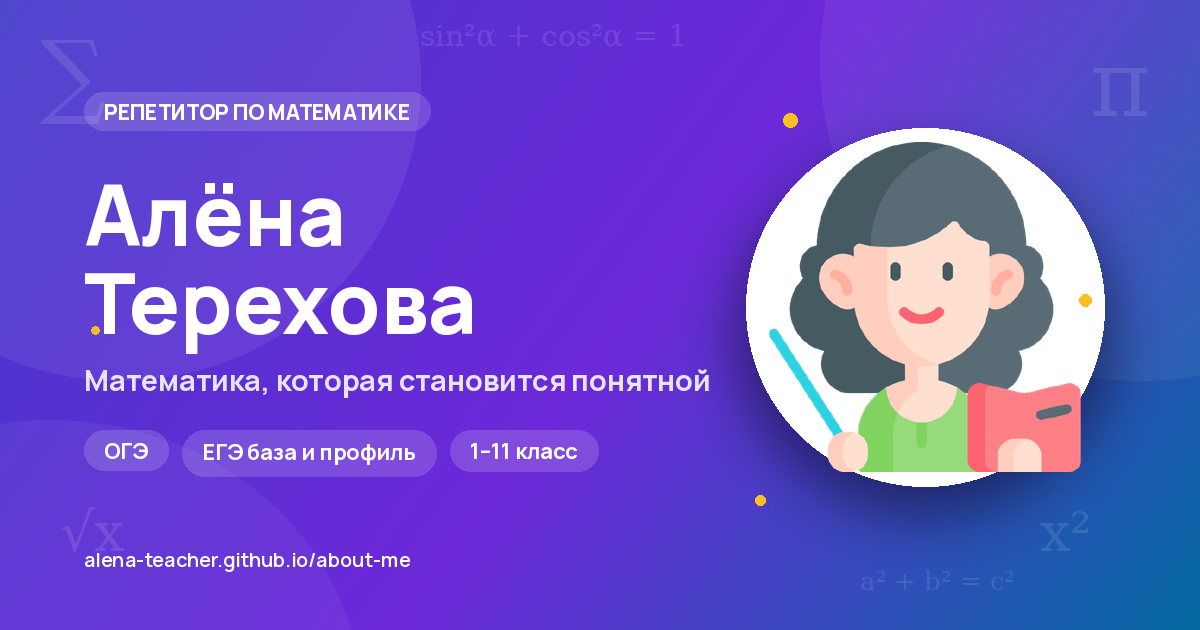
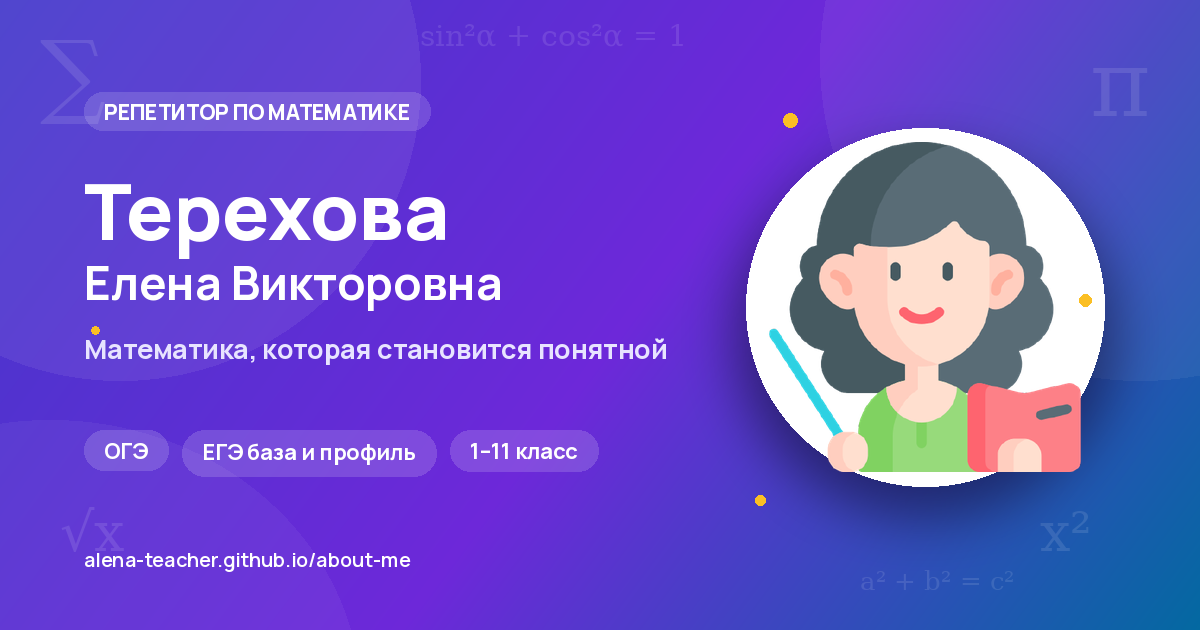
Замена имени на Терехова Елена Викторовна

Changed region(s): [[0.0617, 0.2714, 0.5858, 0.6333]]

diff --git a/overrides/main.html b/overrides/main.html
@@ -28,7 +28,7 @@
   {
     "@context": "https://schema.org",
     "@type": "Person",
-    "name": "Алёна Терехова",
+    "name": "Терехова Елена Викторовна",
     "jobTitle": "Репетитор по математике",
     "description": "Индивидуальные онлайн-занятия по математике для учеников 1–11 классов. Подготовка к ОГЭ и ЕГЭ, школьная программа, математика с нуля.",
     "url": "{{ config.site_url }}",

diff --git a/docs/stylesheets/extra.css b/docs/stylesheets/extra.css
@@ -1,5 +1,5 @@
 /* ==========================================================================
-   Алёна Терехова — репетитор по математике
+   Терехова Елена Викторовна — репетитор по математике
    Фирменный стиль: индиго → фиолетовый → небесный + тёплый янтарный акцент
    ========================================================================== */
 

diff --git a/tools/make_og.py b/tools/make_og.py
@@ -178,13 +178,15 @@ def main() -> None:
         padding_y=11,
     )
 
-    title_font = load_font(84, 800)
-    draw.text((left, 156), "Алёна", font=title_font, fill=(255, 255, 255, 255))
-    draw.text((left, 244), "Терехова", font=title_font, fill=(255, 255, 255, 255))
+    title_font = load_font(78, 800)
+    draw.text((left, 156), "Терехова", font=title_font, fill=(255, 255, 255, 255))
 
-    accent_font = load_font(29, 700)
+    name_font = load_font(46, 700)
+    draw.text((left, 250), "Елена Викторовна", font=name_font, fill=(255, 255, 255, 255))
+
+    accent_font = load_font(27, 700)
     draw.text(
-        (left, 360),
+        (left, 330),
         "Математика, которая становится понятной",
         font=accent_font,
         fill=(232, 228, 255, 255),

diff --git a/docs/about.md b/docs/about.md
@@ -1,6 +1,6 @@
 ---
 title: Обо мне
-description: Алёна Терехова — преподаватель математики. Помогаю школьникам 1–11 классов понять предмет, закрыть пробелы и подготовиться к ОГЭ и ЕГЭ.
+description: Терехова Елена Викторовна — преподаватель математики. Помогаю школьникам 1–11 классов понять предмет, закрыть пробелы и подготовиться к ОГЭ и ЕГЭ.
 hide:
   - navigation
   - toc
@@ -9,20 +9,20 @@ hide:
 <div class="page-hero" markdown>
 <div class="hero__badge">Обо мне</div>
 
-# Алёна Терехова
+# Терехова Елена Викторовна
 
 <p>Преподаватель математики. Помогаю школьникам подружиться с предметом — от первых действий с дробями до профильного ЕГЭ.</p>
 </div>
 
 <div class="about-grid" markdown>
 <div class="about__photo" markdown>
-<img src="../assets/avatar.png" alt="Алёна Терехова">
+<img src="../assets/avatar.png" alt="Терехова Елена Викторовна">
 </div>
 <div class="about__text" markdown>
 
 ## Математика становится понятной, когда её объясняют на понятном языке
 
-Меня зовут **Алёна Терехова**, и я помогаю ученикам 1–11 классов разобраться в математике без страха и зубрёжки.
+Меня зовут **Терехова Елена Викторовна**, и я помогаю ученикам 1–11 классов разобраться в математике без страха и зубрёжки.
 
 Я не заставляю заучивать формулы. Мы разбираемся, **почему** правило работает, учимся видеть логику в каждой задаче и доводим решение до автоматизма. Такой подход даёт не временный результат на экзамене, а уверенность, которая остаётся с учеником.
 

diff --git a/README.md b/README.md
@@ -1,6 +1,6 @@
-# Сайт Алёны Тереховой — репетитора по математике
+# Сайт Тереховой Елены Викторовны — репетитора по математике
 
-![Алёна Терехова — репетитор по математике](docs/assets/banner.svg)
+![Терехова Елена Викторовна — репетитор по математике](docs/assets/banner.svg)
 
 Сайт-визитка на **MkDocs** с темой **Material for MkDocs**. Внутри — главная страница с офферами, направления подготовки, описание методики, результаты, FAQ и контакты.
 

diff --git a/docs/contacts.md b/docs/contacts.md
@@ -1,6 +1,6 @@
 ---
 title: Контакты
-description: Связаться с Алёной Тереховой — репетитором по математике. Telegram, WhatsApp и телефон. Запись на первое занятие и диагностику.
+description: Связаться с Тереховой Еленой Викторовной — репетитором по математике. Telegram, WhatsApp и телефон. Запись на первое занятие и диагностику.
 hide:
   - navigation
   - toc

diff --git a/docs/index.md b/docs/index.md
@@ -29,7 +29,7 @@ hide:
 <div class="hero__visual">
 <div class="hero__blob"></div>
 <div class="hero__portrait">
-<img src="assets/avatar.png" alt="Алёна Терехова — репетитор по математике">
+<img src="assets/avatar.png" alt="Терехова Елена Викторовна — репетитор по математике">
 </div>
 <div class="hero__chip hero__chip--1">ОГЭ и ЕГЭ</div>
 <div class="hero__chip hero__chip--2">1–11 класс</div>
